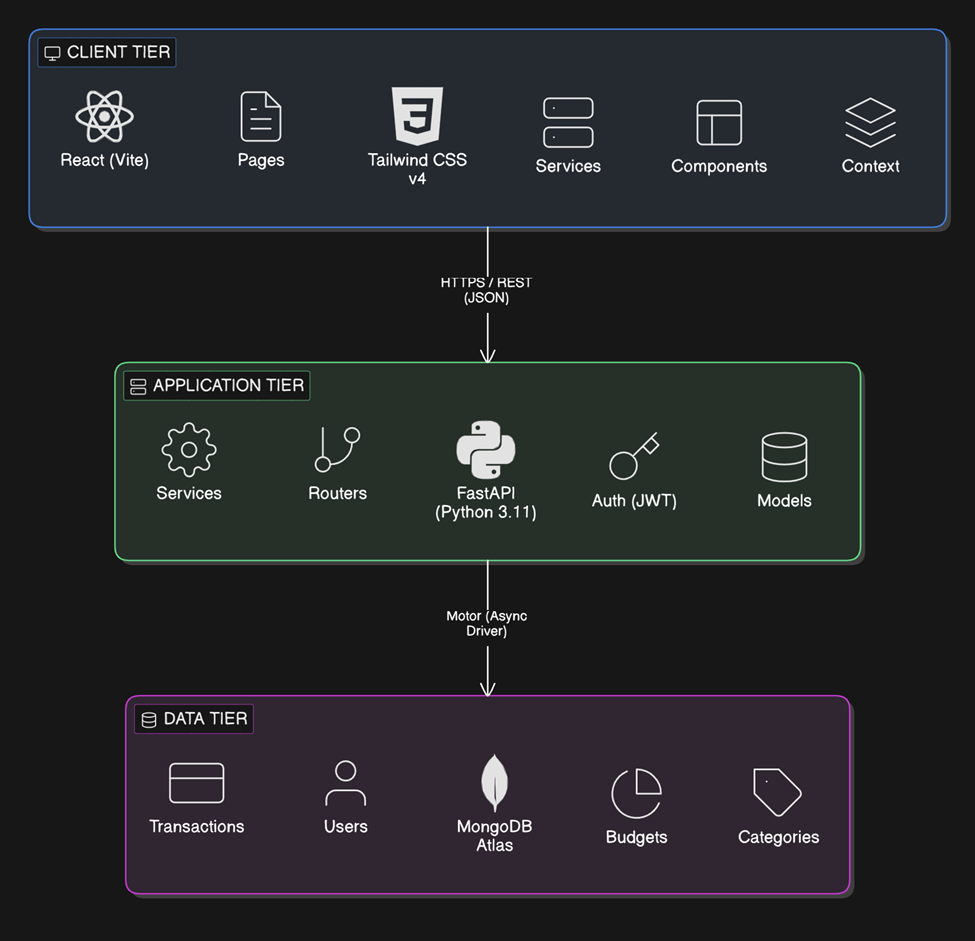
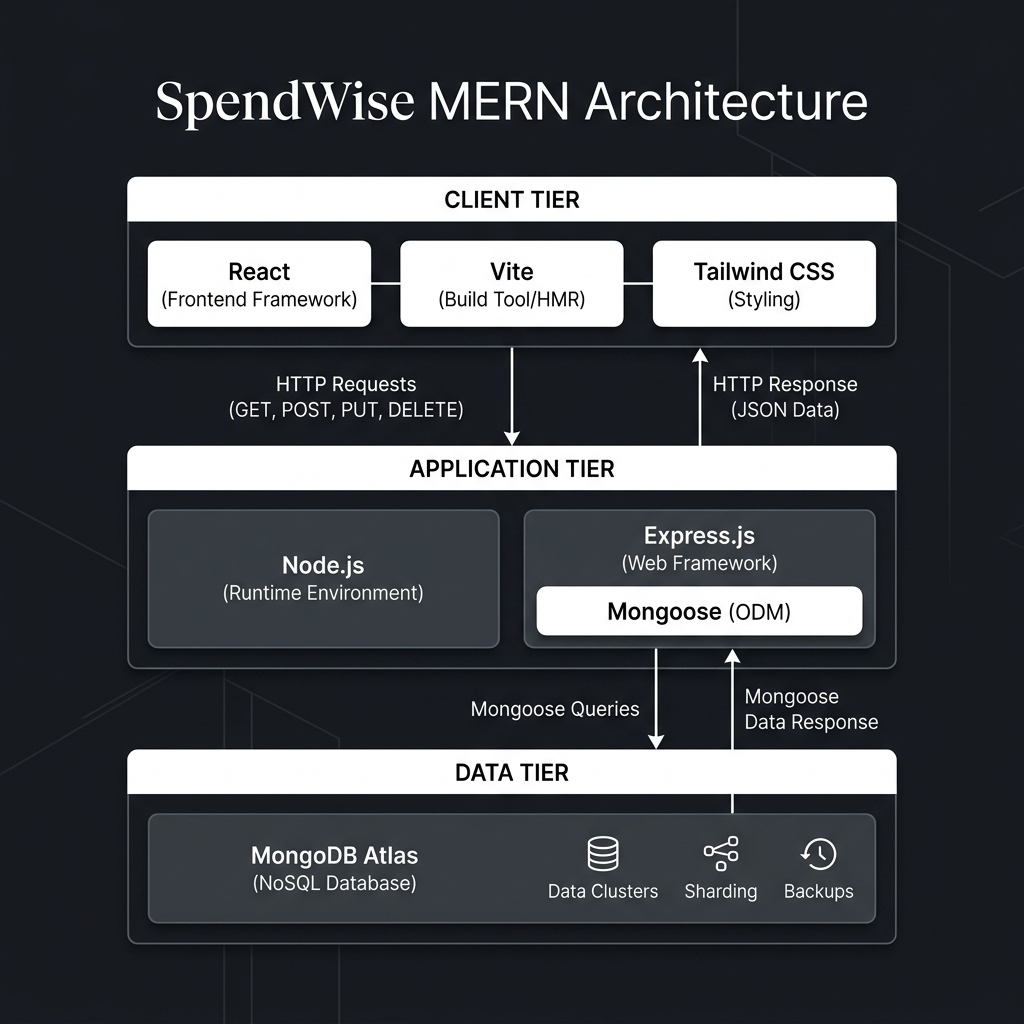
📊 Final Presentation Pack: Detailed MERN Report & Updated Professional Diagrams

diff --git a/SpendWise_MERN_Final_Report.md b/SpendWise_MERN_Final_Report.md
@@ -1,0 +1,106 @@
+# SpendWise: Personal Finance Tracker
+### A Full-Stack MERN Application with JWT Authentication
+**Final Project Report**
+
+---
+
+## 1. Abstract
+SpendWise is a comprehensive personal finance management tool designed to empower users with real-time insights into their spending habits. The application has been migrated from a Python/FastAPI backend to a robust **MERN Stack** (MongoDB, Express.js, React, Node.js). This report details the architecture, design decisions, and implementation of the system, highlighting the use of Mongoose for data modeling and JWT for secure session management.
+
+## 2. Introduction
+In an era of digital transactions, tracking personal expenses is crucial for financial health. SpendWise provides a centralized "Command Center" for users to manage multiple accounts, track categories, and set budgets. The migration to MERN ensures a unified JavaScript environment, improving development efficiency and application performance.
+
+## 3. Project Objectives
+- **Secure Authentication**: Implement robust user registration and login using JWT and Bcrypt.
+- **Financial Tracking**: Enable CRUD operations for transactions across multiple accounts.
+- **Budgeting**: Provide real-time monitoring of category-specific spending limits.
+- **Data Visualization**: Offer interactive charts (Pie, Line) for spending analysis.
+- **MVC Architecture**: Ensure a clean separation of concerns for maintainability.
+
+## 4. System Requirements
+### 4.1 Hardware Requirements
+- Processor: Dual Core 2.0GHz or higher
+- RAM: 8GB minimum
+- Storage: 100MB for application files
+
+### 4.2 Software Requirements
+- Operating System: Windows/Linux/macOS
+- Runtime: Node.js v18+
+- Database: MongoDB Atlas (Cloud)
+- Frontend: React 19 (Vite)
+- IDE: Visual Studio Code
+
+## 5. Technology Stack (MERN)
+### 5.1 Frontend (React)
+- **Framework**: Vite/React for fast development and HMR.
+- **Styling**: Tailwind CSS v4 for a modern monochrome design.
+- **Charts**: Recharts for dynamic data visualization.
+
+### 5.2 Backend (Node.js & Express)
+- **Server**: Express.js for RESTful API routing.
+- **ODM**: Mongoose for structured MongoDB interaction.
+- **Auth**: `jsonwebtoken` for stateless authentication.
+- **Security**: `bcryptjs` for industry-standard password hashing.
+
+### 5.3 Database (MongoDB)
+- **Type**: NoSQL Document Store.
+- **Cloud**: MongoDB Atlas for global scalability and high availability.
+
+## 6. System Architecture
+The application follows a standard **Tiered Architecture**:
+1. **Client Tier**: React SPA handling UI and State.
+2. **Application Tier**: Node.js/Express handling business logic and API routes.
+3. **Data Tier**: MongoDB Atlas storing JSON-like documents.
+
+### 6.1 MVC Pattern (Backend)
+- **Model**: Mongoose schemas in `models/` directory.
+- **View**: JSON responses returned to the React frontend.
+- **Controller**: Business logic in `controllers/` directory.
+
+## 7. Database Design (ER-Diagram)
+The system manages 6 primary collections:
+1. **Users**: Credentials and profile info.
+2. **Accounts**: Name, type, and balance tracking.
+3. **Categories**: Icons and colors for transaction grouping.
+4. **Transactions**: Linked to User, Account, and Category.
+5. **Budgets**: Monthly limits for specific categories.
+6. **Alerts**: Notifications when budgets are 90%+ exceeded.
+
+## 8. Implementation Details
+### 8.1 Authentication Flow
+1. User submits credentials.
+2. Backend verifies hash using `bcrypt.compare()`.
+3. A JWT is signed and returned to the client.
+4. Client stores JWT and includes it in the `Authorization` header for subsequent requests.
+
+### 8.2 Transaction Lifecycle
+- **Create**: Updates the associated account balance and checks for budget alerts.
+- **Update**: Recalculates balance differences and updates the ledger.
+- **Delete**: Reverses the balance change before removing the record.
+
+## 9. Features & UI/UX
+- **Monochrome Glassmorphism**: A sleek, premium design aesthetic.
+- **Theme Support**: Dark and Light modes with persistent state.
+- **Responsive Layout**: Mobile-first design for all devices.
+- **CSV Export**: Ability to download financial data for offline analysis.
+
+## 10. Verification & Testing
+- **API Testing**: Verified using Postman.
+- **Frontend Testing**: Component testing using Vitest.
+- **E2E Testing**: Manual walkthrough of all user flows (Register -> Account -> Transaction -> Dashboard).
+
+## 11. Challenges & Solutions
+- **Migration**: Maintaining hash compatibility was achieved by using standard Bcrypt parameters.
+- **Real-time Aggregation**: Solved using Mongoose Aggregation Pipelines for dashboard totals.
+
+## 12. Conclusion
+SpendWise demonstrates the power of the MERN stack in building production-ready financial tools. The migration from Python to Node.js has resulted in a more cohesive codebase and a more professional architecture.
+
+## 13. Future Enhancements
+- Role-based access control (RBAC).
+- Direct bank API integration.
+- AI-powered spending predictions.
+
+---
+**Prepared By:** [Your Name]
+**Project ID:** SpendWise-MERN-2026
